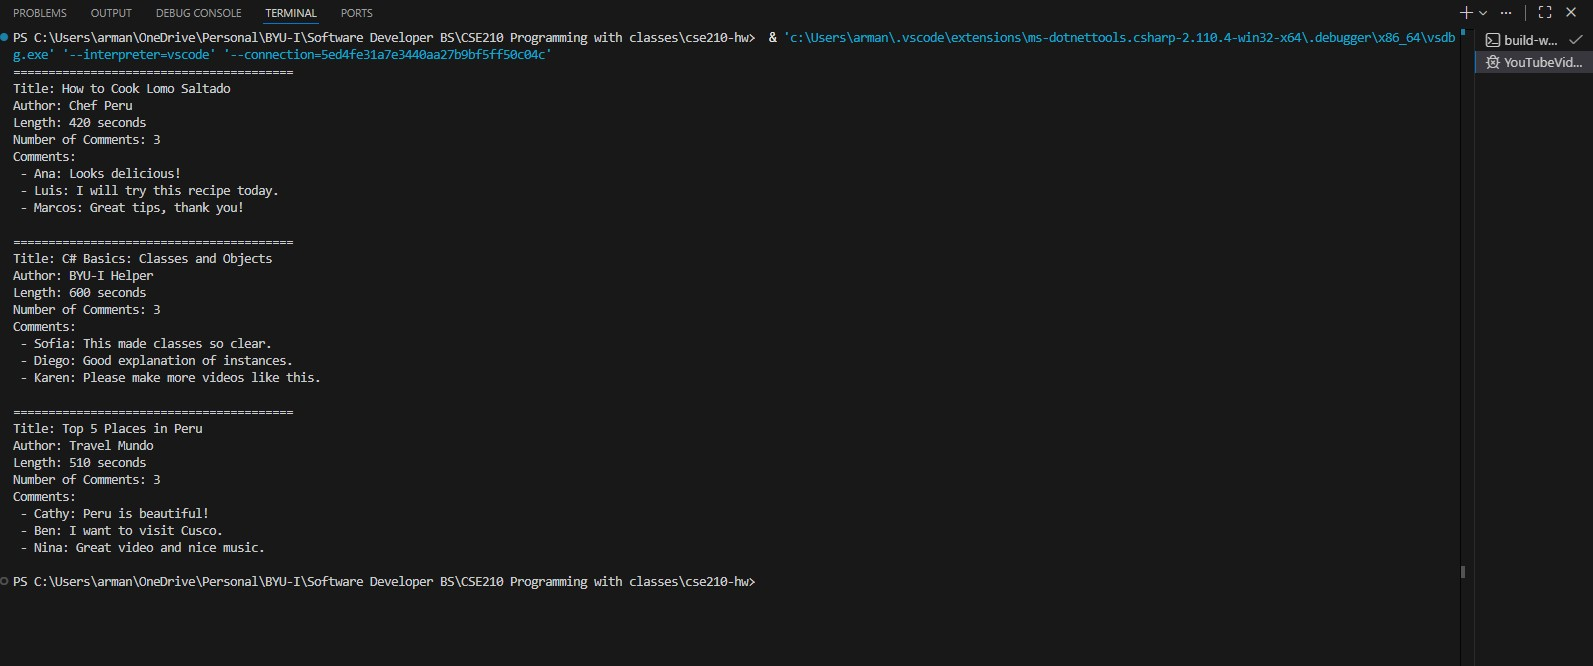
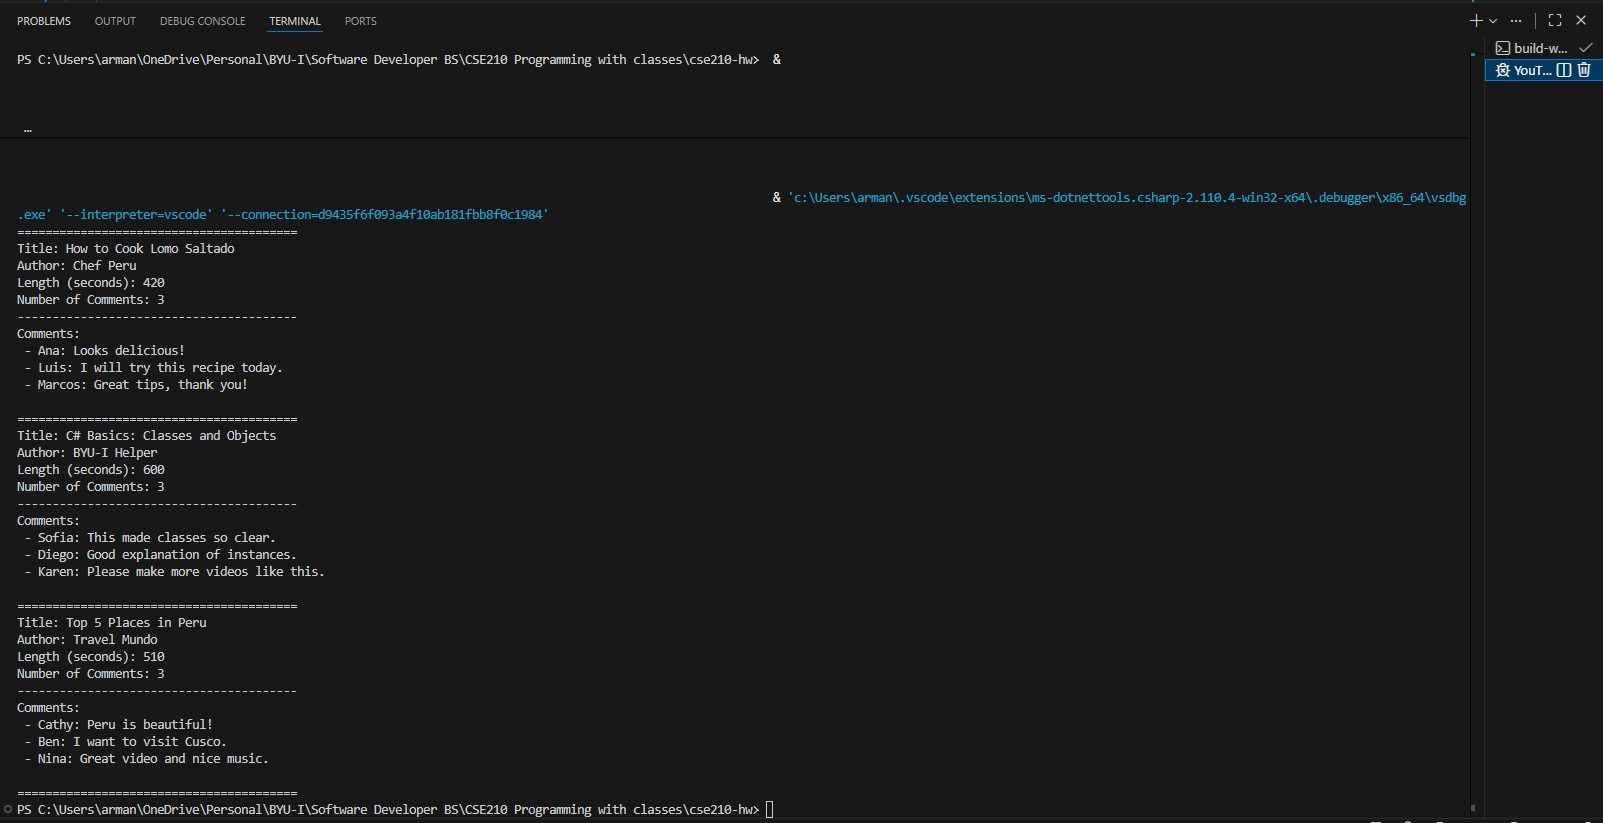
YouTUBE-3

diff --git a/week04/YouTubeVideos/Program.cs b/week04/YouTubeVideos/Program.cs
@@ -1,8 +1,8 @@
 /*
  * Creativity:
- * I added clean, structured formatting to the output so each video and its comments
- * are clearly separated and easy to read. This simulates how a real system might
- * present information while keeping the program simple and aligned with requirements.
+ * I added clean, consistent formatting (headers and separators) to make the output
+ * easier to read and closer to how a real system might display video data and comments.
+ * This improves readability without adding user interaction or changing requirements.
  */
 
 using System;
@@ -12,38 +12,46 @@ class Program
 {
     static void Main(string[] args)
     {
-        Video v1 = new Video("How to Cook Lomo Saltado", "Chef Peru", 420);
-        v1.AgregarComentario(new Comment("Ana", "Looks delicious!"));
-        v1.AgregarComentario(new Comment("Luis", "I will try this recipe today."));
-        v1.AgregarComentario(new Comment("Marcos", "Great tips, thank you!"));
+        // Create 3+ videos
+        Video video1 = new Video("How to Cook Lomo Saltado", "Chef Peru", 420);
+        Video video2 = new Video("C# Basics: Classes and Objects", "BYU-I Helper", 600);
+        Video video3 = new Video("Top 5 Places in Peru", "Travel Mundo", 510);
 
-        Video v2 = new Video("C# Basics: Classes and Objects", "BYU-I Helper", 600);
-        v2.AgregarComentario(new Comment("Sofia", "This made classes so clear."));
-        v2.AgregarComentario(new Comment("Diego", "Good explanation of instances."));
-        v2.AgregarComentario(new Comment("Karen", "Please make more videos like this."));
+        // Add 3+ comments for each video
+        video1.AgregarComentario(new Comment("Ana", "Looks delicious!"));
+        video1.AgregarComentario(new Comment("Luis", "I will try this recipe today."));
+        video1.AgregarComentario(new Comment("Marcos", "Great tips, thank you!"));
 
-        Video v3 = new Video("Top 5 Places in Peru", "Travel Mundo", 510);
-        v3.AgregarComentario(new Comment("Cathy", "Peru is beautiful!"));
-        v3.AgregarComentario(new Comment("Ben", "I want to visit Cusco."));
-        v3.AgregarComentario(new Comment("Nina", "Great video and nice music."));
+        video2.AgregarComentario(new Comment("Sofia", "This made classes so clear."));
+        video2.AgregarComentario(new Comment("Diego", "Good explanation of instances."));
+        video2.AgregarComentario(new Comment("Karen", "Please make more videos like this."));
 
-        List<Video> videos = new List<Video> { v1, v2, v3 };
+        video3.AgregarComentario(new Comment("Cathy", "Peru is beautiful!"));
+        video3.AgregarComentario(new Comment("Ben", "I want to visit Cusco."));
+        video3.AgregarComentario(new Comment("Nina", "Great video and nice music."));
 
+        // Put videos in a list (required)
+        List<Video> videos = new List<Video> { video1, video2, video3 };
+
+        // Iterate through list and display required info (required)
         foreach (Video video in videos)
         {
             Console.WriteLine("========================================");
             Console.WriteLine($"Title: {video.GetTitle()}");
             Console.WriteLine($"Author: {video.GetAuthor()}");
-            Console.WriteLine($"Length: {video.GetLength()} seconds");
+            Console.WriteLine($"Length (seconds): {video.GetLength()}");
             Console.WriteLine($"Number of Comments: {video.GetNumberOfComments()}");
+            Console.WriteLine("----------------------------------------");
             Console.WriteLine("Comments:");
 
-            foreach (Comment c in video.GetComments())
+            foreach (Comment comment in video.GetComments())
             {
-                Console.WriteLine($" - {c.GetName()}: {c.GetText()}");
+                Console.WriteLine($" - {comment.GetName()}: {comment.GetText()}");
             }
 
             Console.WriteLine();
         }
+
+        Console.WriteLine("========================================");
     }
 }

diff --git a/week04/YouTubeVideos/Video.cs b/week04/YouTubeVideos/Video.cs
@@ -4,7 +4,7 @@ public class Video
 {
     private string _title;
     private string _author;
-    private int _length;
+    private int _length; // seconds
     private List<Comment> _comments;
 
     public Video(string title, string author, int length)
@@ -15,6 +15,7 @@ public class Video
         _comments = new List<Comment>();
     }
 
+    // Spanish method name is OK as long as it follows TitleCase (rubric naming convention)
     public void AgregarComentario(Comment comment)
     {
         _comments.Add(comment);
@@ -22,6 +23,7 @@ public class Video
 
     public int GetNumberOfComments()
     {
+        // Required behavior: return the number of comments based on storage (Count)
         return _comments.Count;
     }
 
@@ -30,7 +32,18 @@ public class Video
         return _comments;
     }
 
-    public string GetTitle() => _title;
-    public string GetAuthor() => _author;
-    public int GetLength() => _length;
+    public string GetTitle()
+    {
+        return _title;
+    }
+
+    public string GetAuthor()
+    {
+        return _author;
+    }
+
+    public int GetLength()
+    {
+        return _length;
+    }
 }

diff --git a/week04/YouTubeVideos/Comment.cs b/week04/YouTubeVideos/Comment.cs
@@ -9,6 +9,13 @@ public class Comment
         _text = text;
     }
 
-    public string GetName() => _name;
-    public string GetText() => _text;
+    public string GetName()
+    {
+        return _name;
+    }
+
+    public string GetText()
+    {
+        return _text;
+    }
 }
